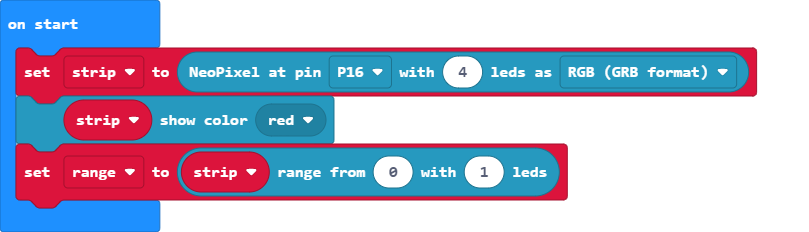
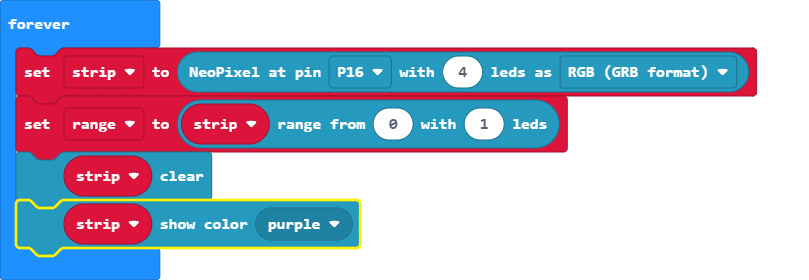
Update main.blocks, main.ts

diff --git a/main.ts b/main.ts
@@ -1,3 +1,8 @@
-let strip = neopixel.create(DigitalPin.P16, 4, NeoPixelMode.RGB)
-strip.showColor(neopixel.colors(NeoPixelColors.Red))
-let range = strip.range(0, 1)
+let strip: neopixel.Strip = null
+let range: neopixel.Strip = null
+basic.forever(function () {
+    strip = neopixel.create(DigitalPin.P16, 4, NeoPixelMode.RGB)
+    range = strip.range(0, 1)
+    strip.clear()
+    strip.showColor(neopixel.colors(NeoPixelColors.Purple))
+})
